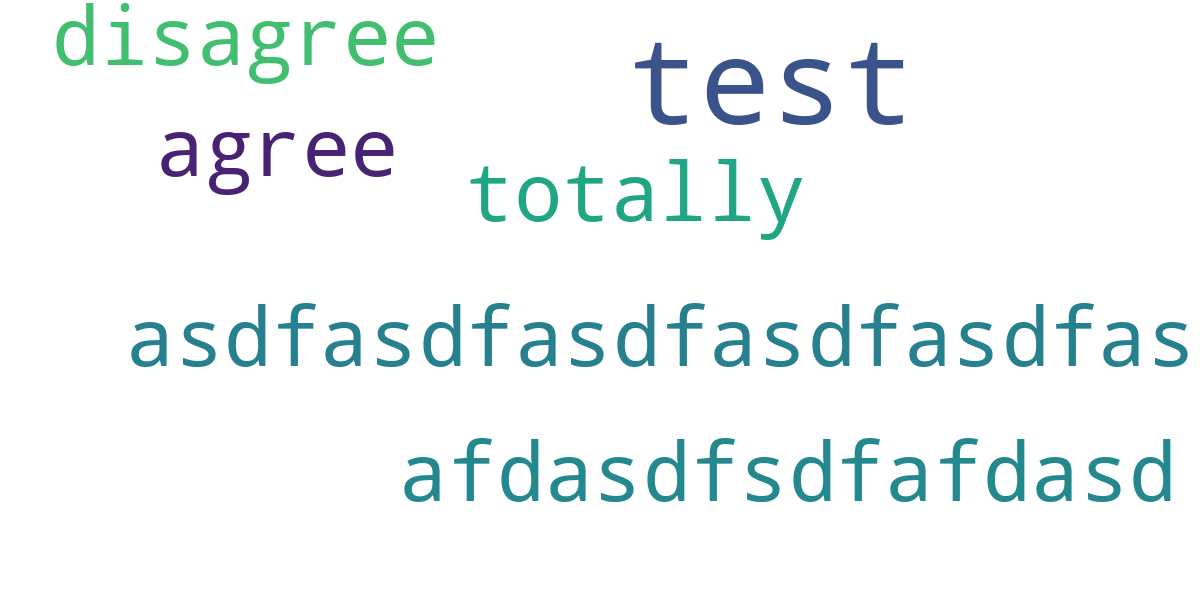
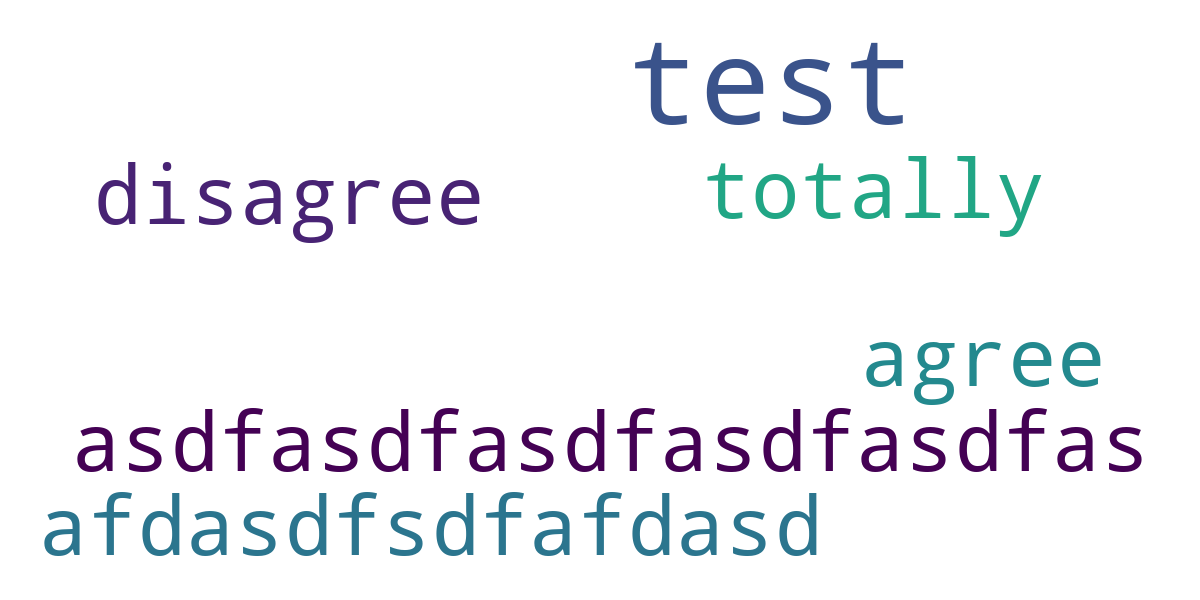
pyspark version

Changed region(s): [[0.0308, 0.51, 1.0, 0.93], [0.0617, 0.21, 0.8633, 0.42], [0.0308, 0.0, 0.37, 0.15]]

diff --git a/public_voices/TopicAnalyzer.py b/public_voices/TopicAnalyzer.py
@@ -1,39 +1,54 @@
+from pyspark.sql import SparkSession, functions as F, types as T
+from pyspark.ml.feature import CountVectorizer, Tokenizer, StopWordsRemover, PCA, VectorAssembler, MinMaxScaler
+from pyspark.ml.regression import LinearRegression
 import numpy as np
 import pandas as pd
-import matplotlib.pyplot as plt
 import seaborn as sns
 import os
-from sklearn.feature_extraction.text import CountVectorizer, TfidfVectorizer
-from sklearn.decomposition import PCA 
-from sklearn.preprocessing import MinMaxScaler
-import numpy as np
-import pandas as pd
-import statsmodels.api as sm
-from wordcloud import WordCloud, STOPWORDS
+from wordcloud import WordCloud
 from textblob import TextBlob
 # from models import Comment
 from public_voices.models import Comment
 
+spark = SparkSession.builder.appName('public_voices').getOrCreate()
+
 class TopicAnalyzer:
     def __init__(self, topic_id) -> None:
+        topic_comments = pd.Series(Comment.find({'topic_id': topic_id}, {'content': 1, 'agree': 1}))
+        schema = T.StructType([
+            T.StructField('content', T.StringType(), True),
+            T.StructField('agree', T.StringType(), True)
+        ])
+        comments = spark \
+            .createDataFrame(data=topic_comments, schema=schema) \
+            .withColumn('agree', F.col('agree').cast(T.IntegerType()))
+
         self.topic_id = topic_id
-        self.comments = pd.DataFrame(Comment.find({'topic_id': topic_id})).astype({'agree': 'int32'})
-
-        vectorizer = CountVectorizer(
-            stop_words='english').fit(self.comments.content)
-        self.df_count = pd.DataFrame(vectorizer.transform(
-            self.comments.content).toarray(), columns=vectorizer.get_feature_names_out())
-
-        tfidf_vectorizer = TfidfVectorizer(
-            stop_words='english').fit(self.comments.content)
-        self.df_tfidf = pd.DataFrame(
-            tfidf_vectorizer.transform(self.comments.content).toarray(),
-            columns=tfidf_vectorizer.get_feature_names_out())
-
+        self.comments = comments
+        self.word_counts = self.extract_word_counts(comments)
         self.plots_dir = os.path.join(os.path.dirname(os.path.realpath(__file__)), 'static', 'images', 'plots')
 
+    def extract_word_counts(self, comments):
+        tokenizer = Tokenizer(inputCol='content', outputCol='words')
+        comments = tokenizer.transform(comments)
+
+        remover = StopWordsRemover(inputCol='words', outputCol='filtered')
+        comments = remover.transform(comments)
+
+        cv = CountVectorizer(inputCol='filtered', outputCol='vectors')
+        cv_model = cv.fit(comments)
+        cv_results = cv_model.transform(comments)
+        word_counts_schema = T.StructType([
+            T.StructField(word, T.FloatType(), True) for word in cv_model.vocabulary
+        ])
+        word_counts = cv_results.select('vectors').rdd.map(
+            lambda x: x['vectors'].toArray().tolist()).toDF(schema=word_counts_schema)
+        
+        return word_counts 
+
+
     def get_agree_distribution(self, save=False):
-        agree_value_counts = self.comments.agree.value_counts().sort_index()
+        agree_value_counts = self.comments.groupby('agree').count().toPandas().set_index('agree')['count']
         index_map = {-3: 'Totally disagree', -2: 'Disagree', -1: 'Kinda disagree', 0: 'Neutral', 1: 'Kinda agree', 2: 'Agree', 3: 'Totally agree'}
         agree_value_counts.index = agree_value_counts.index.map(index_map)
         sns.set_palette(sns.dark_palette("Green"))
@@ -59,77 +74,138 @@ class TopicAnalyzer:
     def get_word_clouds(self):
         self.word_clouds = {}
 
-        if not self.comments.empty:
-            self.word_clouds['all'] = self.make_word_cloud(
-                self.df_count.sum(), 
+        comments_temp = self.comments.withColumn('pseudo_id', F.monotonically_increasing_id())
+        word_counts_temp = self.word_counts.withColumn('pseudo_id', F.monotonically_increasing_id())
+        word_counts_wagree = word_counts_temp.join(
+                                comments_temp.select('pseudo_id', 'agree').withColumnRenamed(
+                                    'agree', 'agree_points__'), 
+                                on='pseudo_id', how='left'
+                            ).drop('pseudo_id')
+        word_col_sums = [F.sum(c).alias(c) for c in word_counts_wagree.columns if c != 'agree_points__']
+
+        if self.comments.rdd.count() > 0:
+            frequencies = word_counts_wagree.select(word_col_sums).toPandas().iloc[0].to_dict() 
+
+            self.word_clouds['all'] = self.make_word_cloud(frequencies,
                 save_file=os.path.join(self.plots_dir, f'topic{self.topic_id}.png'))
         
-        agree_idx = self.comments.agree > 0
-        if agree_idx.any():
-            self.word_clouds['agree'] = self.make_word_cloud(
-                    self.df_count.loc[agree_idx].sum(),
+        word_counts_agree = word_counts_wagree.filter(word_counts_wagree.agree_points__ > 0)
+        if word_counts_agree.rdd.count() > 0:
+            frequencies = word_counts_agree.select(
+                word_col_sums).toPandas().iloc[0].to_dict()
+
+            self.word_clouds['agree'] = self.make_word_cloud(frequencies,
                     save_file=os.path.join(self.plots_dir, f'topic{self.topic_id}_agree.png')) 
 
-        neutral_idx = self.comments.agree == 0
-        if neutral_idx.any():
-            self.word_clouds['neutral'] = self.make_word_cloud(
-                self.df_count.loc[neutral_idx].sum(),
+        word_counts_neutral = word_counts_wagree.filter(
+            word_counts_wagree.agree_points__ == 0)
+        if word_counts_neutral.rdd.count() > 0:
+            frequencies = word_counts_neutral.select(
+                word_col_sums).toPandas().iloc[0].to_dict()
+
+            self.word_clouds['neutral'] = self.make_word_cloud(frequencies,
                 save_file=os.path.join(self.plots_dir, f'topic{self.topic_id}_neutral.png'))
 
-        disagree_idx = self.comments.agree < 0
-        if disagree_idx.any():
-            self.word_clouds['disagree'] = self.make_word_cloud(
-                self.df_count.loc[disagree_idx].sum(),
+        word_counts_disagree = word_counts_wagree.filter(
+            word_counts_wagree.agree_points__ < 0)
+        if word_counts_disagree.rdd.count() > 0:
+            frequencies = word_counts_disagree.select(
+                word_col_sums).toPandas().iloc[0].to_dict()
+
+            self.word_clouds['disagree'] = self.make_word_cloud(frequencies,
                 save_file=os.path.join(self.plots_dir, f'topic{self.topic_id}_disagree.png'))
 
         return self.word_clouds
 
     
-    def get_sentiment(self, text):
-        sentiment = TextBlob(text).sentiment 
-        return {'polarity': sentiment.polarity, 'subjectivity': sentiment.subjectivity}
+    def get_sentiment(self, comment):
+        sentiment = TextBlob(comment.content).sentiment 
+        return {'polarity': sentiment.polarity, 'subjectivity': sentiment.subjectivity, 'agree': comment.agree}
 
     def analyze_sentiments(self):
-        sentiments = self.comments.content.apply(self.get_sentiment)
-        sentiments = pd.DataFrame(sentiments.tolist())
-
+        sentiments = spark.sparkContext.parallelize(
+            self.comments.toPandas().apply(self.get_sentiment, axis=1).tolist())
+        
         sentiment_analysis = {}
-        sentiment_analysis['all_sentiment_polarity'] = sentiments.polarity.mean()
-        sentiment_analysis['all_sentiment_subjectivity'] = sentiments.subjectivity.mean(
-        )
-        sentiment_analysis['agree_sentiment_polarity'] = sentiments.loc[self.comments.agree > 0, 'polarity'].mean()
-        sentiment_analysis['agree_sentiment_subjectivity'] = sentiments.loc[self.comments.agree > 0, 'subjectivity'].mean(
-        )
-        sentiment_analysis['neutral_sentiment_polarity'] = sentiments.loc[self.comments.agree == 0, 'polarity'].mean(
-        )
-        sentiment_analysis['neutral_sentiment_subjectivity'] = sentiments.loc[self.comments.agree == 0, 'subjectivity'].mean(
-        )
-        sentiment_analysis['disagree_sentiment_polarity'] = sentiments.loc[self.comments.agree < 0, 'polarity'].mean(
-        )
-        sentiment_analysis['disagree_sentiment_subjectivity'] = sentiments.loc[self.comments.agree < 0, 'subjectivity'].mean(
-        )
+
+        sentiment_analysis['all_sentiment_polarity'] = sentiments.map(lambda x: x['polarity']).mean()
+        sentiment_analysis['all_sentiment_subjectivity'] = sentiments.map(lambda x: x['subjectivity']).mean()
+        
+        agree_sentiments = sentiments.filter(lambda x: x['agree'] > 0)
+        sentiment_analysis['agree_sentiment_polarity'] = agree_sentiments.map(
+            lambda x: x['polarity']).mean()
+        sentiment_analysis['agree_sentiment_subjectivity'] = agree_sentiments.map(
+            lambda x: x['subjectivity']).mean()
+        
+        neutral_sentiments = sentiments.filter(lambda x: x['agree'] == 0)
+        sentiment_analysis['neutral_sentiment_polarity'] = neutral_sentiments.map(
+            lambda x: x['polarity']).mean()
+        sentiment_analysis['neutral_sentiment_subjectivity'] = neutral_sentiments.map(
+            lambda x: x['subjectivity']).mean()
+
+        disagree_sentiments = sentiments.filter(lambda x: x['agree'] < 0)      
+        sentiment_analysis['disagree_sentiment_polarity'] = disagree_sentiments.map(
+            lambda x: x['polarity']).mean()
+        sentiment_analysis['disagree_sentiment_subjectivity'] = disagree_sentiments.map(
+            lambda x: x['subjectivity']).mean()
 
         return sentiment_analysis
 
     def apply_pca(self):
-        pca = PCA()
-        pca.fit(self.df_tfidf)
+        k = len(self.word_counts.columns)
+        vecAssembler = VectorAssembler(inputCols=self.word_counts.columns, outputCol='features')
+        word_counts = vecAssembler.transform(self.word_counts)
 
-        n_components = np.where(pca.explained_variance_ratio_.cumsum() >= 0.8)[0][0] + 1
+        pca = PCA(k=k, inputCol='features', outputCol='pca_features')
+        pca_model = pca.fit(word_counts)
+        word_counts = pca_model.transform(word_counts)
         
-        self.df_pca = pd.DataFrame(pca.transform(self.df_tfidf)[:, :n_components])
+        pca_array = np.array(
+            word_counts.rdd.map(
+                lambda x: x['pca_features'].toArray().tolist()
+            ).collect()
+        )
+
+        n_components = np.where(
+            pca_model.explainedVariance.toArray().cumsum() >= 0.8)[0][0] + 1
+        
+        
+        self.df_pca = spark.createDataFrame(pca_array[:, :n_components].tolist())
 
         return self.df_pca
 
     def map_components_to_features(self):
-        self.scaler = MinMaxScaler()
-        self.df_tfidf_scaled = pd.DataFrame(self.scaler.fit_transform(self.df_tfidf), columns=self.df_tfidf.columns)
-        self.df_pca_scaled = pd.DataFrame(self.scaler.fit_transform(self.df_pca), columns=self.df_pca.columns)
+        # Scale df_pca
+        vec_assembler = VectorAssembler(inputCols=self.df_pca.columns, outputCol='features')
+        df_pca = vec_assembler.transform(self.df_pca)
+        scaler = MinMaxScaler(inputCol='features', outputCol='scaled_features')
+        self.df_pca_scaled = scaler.fit(df_pca).transform(df_pca)
+
+        # Scale word_counts
+        vec_assembler = VectorAssembler(inputCols=self.word_counts.columns, outputCol='features')
+        word_counts = vec_assembler.transform(self.word_counts)
+        scaler = MinMaxScaler(inputCol='features', outputCol='scaled_features')
+        word_counts_scaled = scaler.fit(word_counts).transform(word_counts)
+        word_counts_scaled = word_counts_scaled.rdd.map(
+                lambda x: [float(y) for y in x['scaled_features']]
+            ).toDF(self.word_counts.columns)
+
+        df_model = self.df_pca_scaled \
+            .withColumn('pseudo_id', F.monotonically_increasing_id()) \
+            .join(
+                word_counts_scaled.withColumn(
+                    'pseudo_id', F.monotonically_increasing_id()),
+                on='pseudo_id', how='left'
+            )
 
         word_coefs = {}
-        for word in self.df_tfidf_scaled.columns:
-            model = sm.OLS(self.df_tfidf_scaled[word], self.df_pca_scaled).fit()
-            word_coefs[word] = model.params
+        for word in self.word_counts.columns:
+            if word == 'features':
+                continue
+
+            lr = LinearRegression(featuresCol='scaled_features', labelCol=word)
+            lr_model = lr.fit(df_model)
+            word_coefs[word] = lr_model.coefficients.toArray().tolist()
 
         self.word_coefs = pd.DataFrame(word_coefs).T
 
@@ -140,9 +216,30 @@ class TopicAnalyzer:
         return self.component_features
 
     def get_component_effects(self):
-        self.agree_scaled = self.scaler.fit_transform(self.comments[['agree']])
-        model = sm.OLS(self.agree_scaled, self.df_pca_scaled).fit()
-        return model.params
+        vec_assembler = VectorAssembler(inputCols=['agree'], outputCol='agree_vec')
+        comments_agree_vec = vec_assembler.transform(self.comments)
+
+        scaler = MinMaxScaler(inputCol='agree_vec', outputCol='agree_scaled')
+        comments_agree_scaled = scaler.fit(comments_agree_vec).transform(comments_agree_vec)
+        comments_agree_scaled = comments_agree_scaled.rdd.map(
+                lambda x: [float(x['agree_scaled'].toArray()[0])]
+            ).toDF(
+                T.StructType([
+                    T.StructField('agree_scaled', T.FloatType(), True)
+                ])
+            )
+
+        df_model = self.df_pca_scaled.withColumn('pseudo_id', F.monotonically_increasing_id()).join(
+                comments_agree_scaled.select('agree_scaled').withColumn('pseudo_id', F.monotonically_increasing_id()),
+            on='pseudo_id', how='left')
+
+        df_model.show() 
+
+        lr = LinearRegression(featuresCol='scaled_features', labelCol='agree_scaled')
+        lr_model = lr.fit(df_model)
+        coefs = lr_model.coefficients.toArray().tolist()
+
+        return pd.Series(coefs)
 
 if __name__ == '__main__':
     ta = TopicAnalyzer('639614f151df2860db0fdbad')

diff --git a/public_voices/views.py b/public_voices/views.py
@@ -76,18 +76,18 @@ def analyze(request, topic_id):
     sentiment_analysis = ta.analyze_sentiments()
     context.update(sentiment_analysis)
 
-    try:
-        ta.apply_pca()
-        component_features = ta.map_components_to_features()
-        component_features = pd.DataFrame([[k, ', '.join(v)] 
-                                                        for k, v in component_features.items()],
-                                                        columns=['Discussion Component', 'Associated Words'])
-        component_effects = ta.get_component_effects().round(2).to_frame().rename(columns={0: 'Effect on Agree Pts.'})
-        component_words_and_effects = component_features.join(
-            component_effects, on='Discussion Component').sort_values(by='Discussion Component')
-        context['component_words_and_effects'] = component_words_and_effects.to_html(index=False)
-    except:
-        context['component_words_and_effects'] = 'Not enough data to perform PCA.'
+    # try:
+    ta.apply_pca()
+    component_features = ta.map_components_to_features()
+    component_features = pd.DataFrame([[k, ', '.join(v)] 
+                                                    for k, v in component_features.items()],
+                                                    columns=['Discussion Component', 'Associated Words'])
+    component_effects = ta.get_component_effects().round(2).to_frame().rename(columns={0: 'Effect on Agree Pts.'})
+    component_words_and_effects = component_features.join(
+        component_effects, on='Discussion Component').sort_values(by='Discussion Component')
+    context['component_words_and_effects'] = component_words_and_effects.to_html(index=False)
+    # except Exception as e:
+    #     context['component_words_and_effects'] = e
 
     return render(request, 'analyze.html', context)
 

diff --git a/public_voices/models.py b/public_voices/models.py
@@ -20,16 +20,16 @@ class Model:
         return res
 
     @classmethod
-    def find(cls, query):
-        iter = cls.collection.find(query).sort('updated_at', -1)
+    def find(cls, query, projection=None):
+        iter = cls.collection.find(query, projection).sort('updated_at', -1)
         records = []
         for record in iter:
             records.append(record)
         return records
 
     @classmethod
-    def find_one(cls, query):
-        iter = cls.collection.find(query)
+    def find_one(cls, query, projection=None):
+        iter = cls.collection.find(query, projection)
         for record in iter:
             return record
         return None

diff --git a/public_voices/settings.py b/public_voices/settings.py
@@ -26,7 +26,7 @@ SECRET_KEY = 'django-insecure-l5y7ef0l87q*6%sn+=9-xobx@=!5$24kb7+90hcipl+(5@0_7p
 # SECURITY WARNING: don't run with debug turned on in production!
 DEBUG = True
 
-ALLOWED_HOSTS = []
+ALLOWED_HOSTS = ['0.0.0.0']
 
 
 # Application definition
